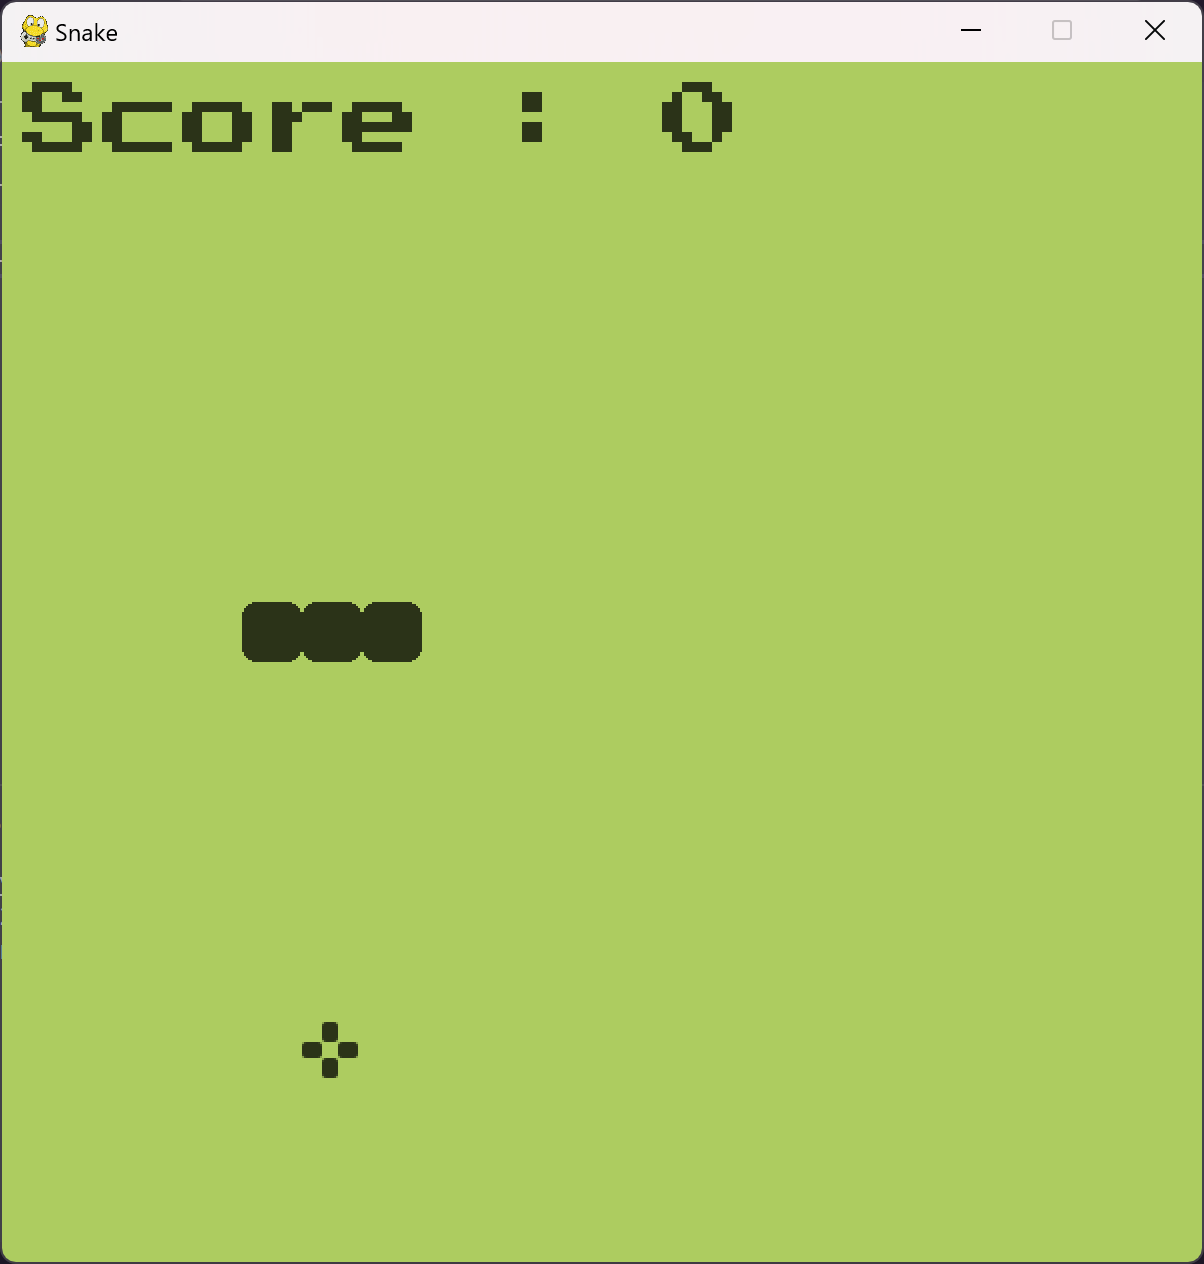
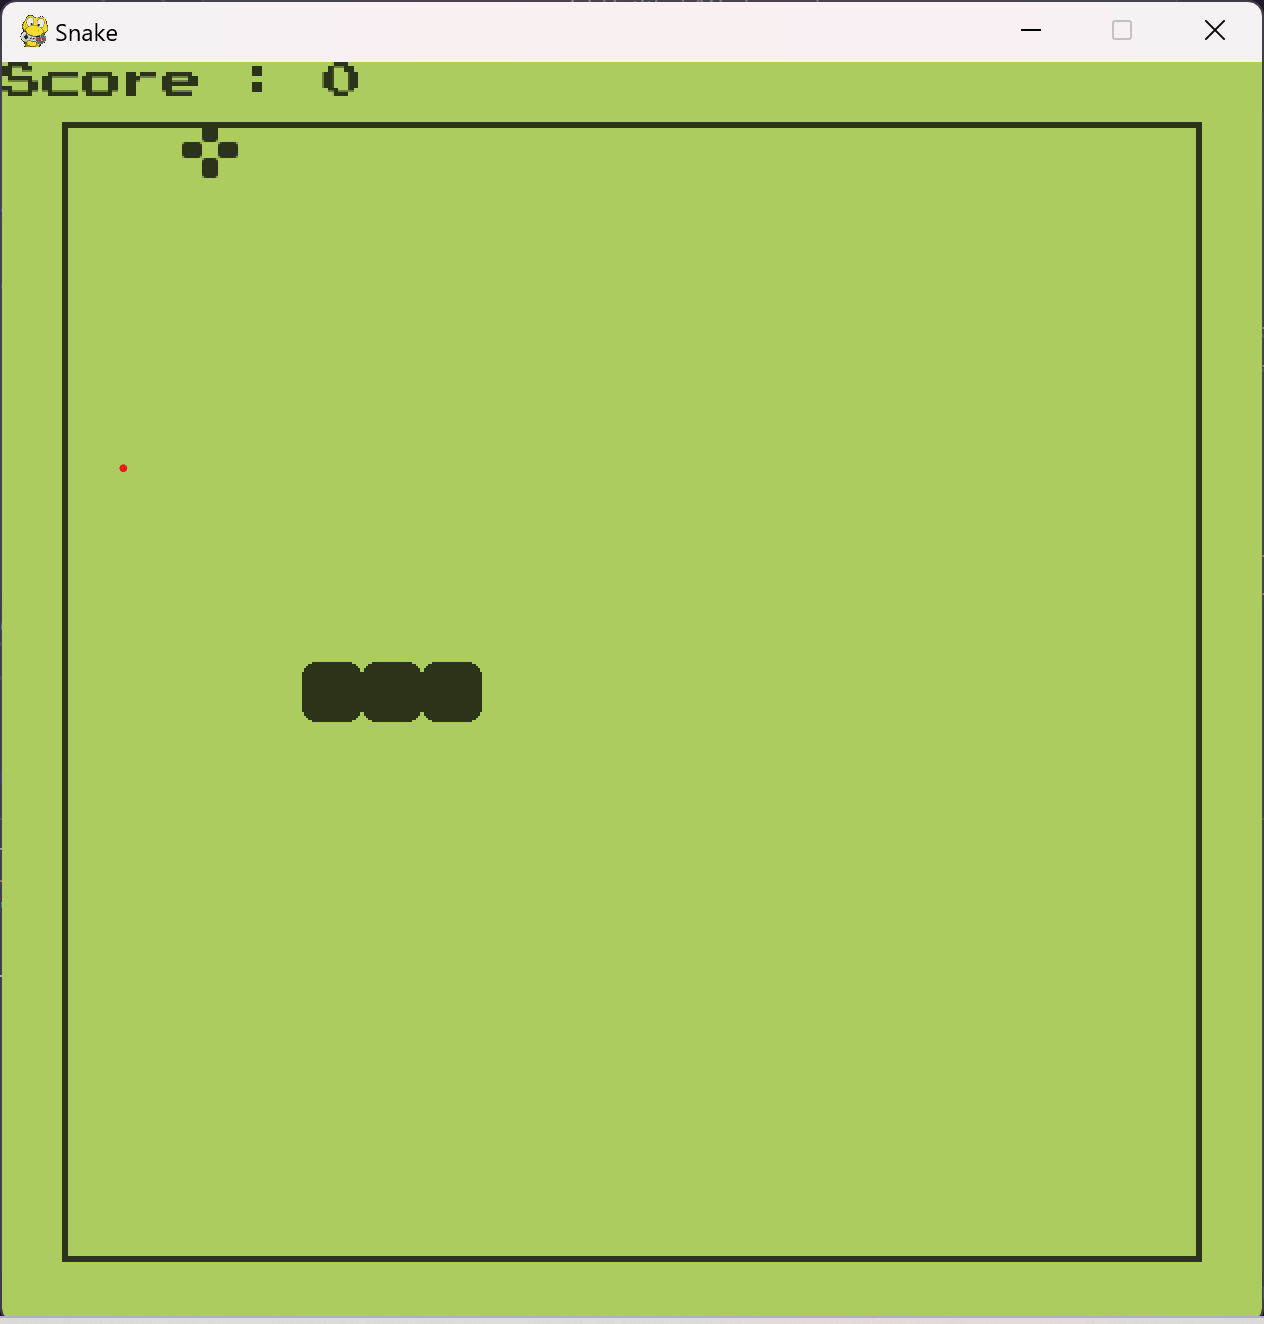
Added

diff --git a/game.py b/game.py
@@ -31,9 +31,9 @@ class Game:
             self.food.position = self.food.generate_random_position()
     
     def check_collision_with_wall(self):
-        if self.snake.body[0].x >= number_of_sizes or self.snake.body[0].x == 0:
+        if self.snake.body[0].x >= number_of_sizes or self.snake.body[0].x == -1:
             self.game_over()
-        if self.snake.body[0].y >= number_of_sizes or self.snake.body[0].y == 0:
+        if self.snake.body[0].y >= number_of_sizes or self.snake.body[0].y == -1:
             self.game_over()
 
     def game_over(self):

diff --git a/index.py b/index.py
@@ -22,17 +22,19 @@ OFFSET = 30
 
 #font
 title_font = pg.font.Font("Asset/font.ttf", 60)
-font = pg.font.Font("Asset/font.ttf", 40)
+font = pg.font.Font("Asset/font.ttf", 20)
 
 #button
 start_img = pg.image.load("Asset/start_btn.png")
 exit_img = pg.image.load("Asset/exit_btn.png")
 
 # screen
-screen = pg.display.set_mode((size, size))
+screen = pg.display.set_mode((size + OFFSET, size + OFFSET))
 
 # food
 food_surface = pg.image.load("Asset/food.png")
 
 # background
 background = pg.image.load("Asset/Background.png")
+
+#border

diff --git a/main.py b/main.py
@@ -90,6 +90,9 @@ while True:
             
             screen.fill(GREEN)
 
+            pg.draw.rect(screen, DARK_GREEN, (OFFSET, OFFSET, size - OFFSET, size - OFFSET), 3)
+            # pg.display.flip()
+
             #draw border
 
             #draw food + snake
@@ -97,7 +100,7 @@ while True:
 
             #show score
             score = font.render(f"Score : {str(game.score)}", True, DARK_GREEN)
-            screen.blit(score, (10, 10))
+            screen.blit(score, (0,0))
 
             pg.display.update()
 

diff --git a/food.py b/food.py
@@ -9,7 +9,7 @@ class Food:
         self.position = self.generate_random_position()
 
     def draw(self):
-        food_rect = (self.position.x * cell_size, self.position.y * cell_size, cell_size, cell_size)    
+        food_rect = (self.position.x * cell_size + OFFSET, self.position.y * cell_size + OFFSET, cell_size, cell_size)    
         screen.blit(food_surface, food_rect)
     
     def generate_random_position(self):

diff --git a/snake.py b/snake.py
@@ -10,7 +10,7 @@ class Snake:
 
     def draw(self):
         for segment in self.body:
-            segment_rect = (segment.x * cell_size, segment.y * cell_size, cell_size, cell_size)
+            segment_rect = (OFFSET + segment.x * cell_size, OFFSET + segment.y * cell_size, cell_size, cell_size)
             pg.draw.rect(screen, DARK_GREEN, segment_rect, 0, 7)
 
     def update(self):

diff --git a/README.md b/README.md
@@ -1,5 +1,5 @@
 First game: Snake 
 - Menu screen : Start, exit button added. Background added.
 ![Alt text](Image/menu_screen.png)
-- Play screen
+- Play screen : Border added.
 ![Alt text](Image/play_screen.png)
